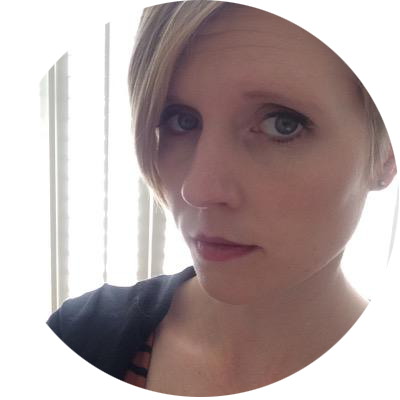
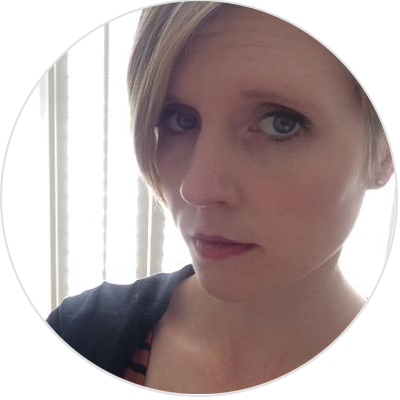
Photo of self added.

diff --git a/about.html b/about.html
@@ -39,14 +39,16 @@ ga('send', 'pageview');
       I have a love for typography and taught a Graphic Design class focused on type at <a href="http://illinoisstate.edu/">Illinois State University</a>.
       <br><br>
 			I am experienced in branding design, print design, responsive web design, and designing marketing materials and advertising.
-
-
-			</h3>
+</h3>
   </div><!-- intro -->
+
   <div class="description">
         <p>I am currently accepting freelance work, if you are interested in my help, have questions,
           or just want to say hi, contact me at <a href="mailto:shari.robertshaw@gmail.com">shari.robertshaw@gmail.com </a></p>
   </div><!-- description -->
+	<div class="self">
+	<img src="images/twitterpic.png" width="200">
+</div>
   <div class="icons">
     <ul>
       <li>

diff --git a/styles.css b/styles.css
@@ -363,6 +363,13 @@ h5{
     text-align: center;
     }
 
+  .self {
+    width:52%;
+    margin: 7% auto 0 auto ;
+    display: block;
+    text-align: center;
+  }
+
   #video video{
     height:480px;
     width: 720px;
